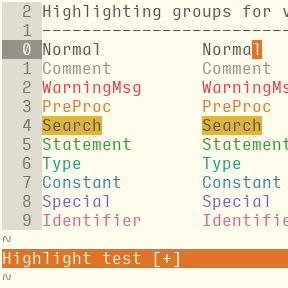
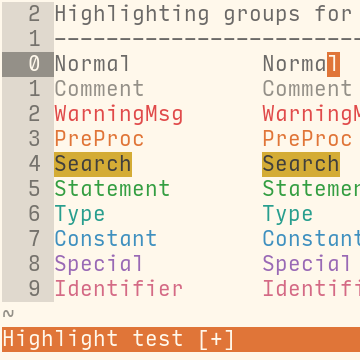
overhaul

diff --git a/README.md b/README.md
@@ -7,8 +7,8 @@
 <table>
 <tr><td align="center"><strong>carbonized-dark</strong></td><td align="center"><strong>carbonized-light</strong></td></tr>
 <tr>
-<td><img src="/img/screenshot-carbonized-dark.png" alt="screenshot of the carbonized-dark vim theme" width="288" /></td>
-<td align="center"><img src="/img/screenshot-carbonized-light.png" alt="screenshot of the carbonized-light vim theme" width="288" /></td>
+<td><img src="/img/screenshot-carbonized-dark.png" alt="screenshot of the carbonized-dark vim theme" width="360" /></td>
+<td align="center"><img src="/img/screenshot-carbonized-light.png" alt="screenshot of the carbonized-light vim theme" width="360" /></td>
 </tr>
 </table>
 
